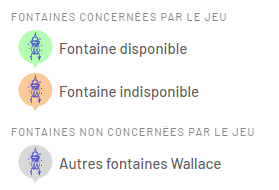
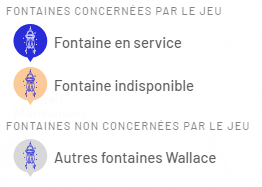
Fix fontaines and fontaines wallace

Changed region(s): [[0.0, 0.0267, 0.855, 0.5882], [0.0, 0.6417, 0.9466, 0.9626]]

diff --git a/fontaines/customcontrol/fontaines.html b/fontaines/customcontrol/fontaines.html
@@ -23,8 +23,8 @@
         id="btn-check__brumisation"
         class="btn-check-lgd"
         name="lgd"
-        cqltype="fontaines_type"
-        value="'FONTNE_WALLACE_2EN1','FONTAINE_TOTEM_2EN1','FTNE_MAT_SOURCE_2EN1'" />
+        cqltype="fontaines_brumisante"
+        value="'OUI'" />
       <label class="btn-legend" for="btn-check__brumisation" style="opacity: 1">
         <img src="apps/fontaines/img/brumisateur.svg" />
         <span i18n="fontaine.type.brumisation">Avec brumisation</span>
@@ -36,8 +36,8 @@
         id="btn-check__eau-petillante"
         class="btn-check-lgd"
         name="lgd"
-        cqltype="fontaines_type"
-        value="'FTNE_PETILLANTE',''" />
+        cqltype="fontaines_petillante"
+        value="'OUI'" />
       <label class="btn-legend" for="btn-check__eau-petillante" style="opacity: 1">
         <img src="apps/fontaines/img/eau_petillante.svg" />
         <span i18n="fontaine.type.eaupetillante">Eau pétillante</span>
@@ -334,6 +334,8 @@
   let list_types = [];
   let list_dispo = [];
   let list_dispo24 = [];
+  let list_petillante = [];
+  let list_brumisante = [];
 
 // Manage type of fontains block
 function filterDisplayBlock(targetBtn, targetBlock) {
@@ -345,9 +347,12 @@ function filterDisplayBlock(targetBtn, targetBlock) {
 // Function to reset filter
 function resetFilter() {
 	// Empty CQL lists and delete CQL Filter
-	list_dispo = [];
-	list_types = [];
-  list_dispo24 = [];
+	let list_types = [];
+  let list_dispo = [];
+  let list_dispo24 = [];
+  let list_petillante = [];
+  let list_brumisante = [];
+  let cql_constructor = [];
 	deleteCQLFilter();
 	// Opacity 1 for all labels
 	let labels = document.querySelectorAll(".btn-check-lgd ~ label");
@@ -421,50 +426,74 @@ checkboxes.forEach(function(checkbox) {
       valueInList(list_dispo24, cqlvalue);
     }else if(cqltype == "fontaines_d") {
       valueInList(list_dispo, cqlvalue);
-    } else if(cqltype == "fontaines_type") {
+    }else if(cqltype == "fontaines_type") {
       valueInList(list_types, cqlvalue);
+    }else if(cqltype == "fontaines_petillante") {
+      valueInList(list_petillante, cqlvalue);
+    }else if(cqltype == "fontaines_brumisante") {
+      valueInList(list_brumisante, cqlvalue);
     }
-		// Manage commerces layer
-		let checkCom = document.querySelectorAll("input[cqltype=commerces][name=lgd].checkOnMap");
-    if (checkCom.length > 0) {
-      mviewer.getLayer('commerce').layer.setVisible(true);
-      if (list_dispo.length == 0 && list_dispo24.length == 0 && list_types.length == 0) {
-        mviewer.getLayer('fontaines').layer.setVisible(false);
-      } else if (list_dispo.length == 0 && list_dispo24.length > 0 && list_types.length == 0) {
-        mviewer.getLayer('fontaines').layer.setVisible(false);
-        mviewer.getLayer('commerce').layer.setVisible(false);
-      } else {
-        mviewer.getLayer('fontaines').layer.setVisible(true);
-      }
-	  } else {
-      mviewer.getLayer('commerce').layer.setVisible(false);
-      mviewer.getLayer('fontaines').layer.setVisible(true);
+		
+    // Create expression for cql filter
+    let cql_filter_types;
+    let cql_filter_dispo;
+    let cql_filter_dispo24;
+    let cql_filter_petillante;
+    let cql_filter_brumisante;
+    let cql_constructor = [];
+    if (list_types.length > 0) {
+      cql_filter_types = `type_objet IN (${list_types})`;
+      cql_constructor.push(cql_filter_types);
     } 
-    // CQL filter creation according to lists for fontaines layers
-    let cql_filter;
-    if (list_dispo.length > 0 && list_types.length > 0 && list_dispo24.length  == 0) {
-      cql_filter = `type_objet IN  (${list_types}) AND dispo IN (${list_dispo})`;
-      filterDataByAttr(cql_filter);
-    } else if (list_dispo24.length > 0 && list_types.length == 0 && list_dispo.length == 0) {
-      cql_filter = `dispo_24 IN (${list_dispo24})`;
-      filterDataByAttr(cql_filter);
-    } else if (list_dispo24.length > 0 && list_types.length > 0 && list_dispo.length == 0) {
-      cql_filter = `type_objet IN  (${list_types}) AND dispo_24 IN (${list_dispo24})`;
-      filterDataByAttr(cql_filter);
-    } else if (list_dispo.length > 0 && list_types.length == 0 && list_dispo24.length  == 0) {
-      cql_filter = `dispo IN (${list_dispo})`;
-      filterDataByAttr(cql_filter);
-    } else if (list_dispo24.length == 0 && list_dispo.length == 0 && list_types.length > 0) {
-      cql_filter = `type_objet IN (${list_types})`;
-      filterDataByAttr(cql_filter);
-    } else if (list_dispo24.length > 0 && list_dispo.length > 0 && list_types.length == 0) {
+    if (list_dispo.length > 0) {
+      cql_filter_dispo = `dispo IN (${list_dispo})`;
+      cql_constructor.push(cql_filter_dispo);
+    }
+    if (list_dispo24.length > 0) {
+      cql_filter_dispo24 = `dispo_24 IN (${list_dispo24})`;
+      cql_constructor.push(cql_filter_dispo24);
+    }
+    if (list_petillante.length > 0) {
+      cql_filter_petillante = `petillante IN (${list_petillante})`;
+      cql_constructor.push(cql_filter_petillante);
+    }
+    if (list_brumisante.length > 0) {
+      cql_filter_brumisante = `brumisante IN (${list_brumisante})`;
+      cql_constructor.push(cql_filter_brumisante);
+    }
+
+    // Get status of commerces  
+    let checkCom = document.querySelectorAll("input[cqltype=commerces][name=lgd].checkOnMap");
+
+    // Manage display layers for each case
+    if (cql_constructor.length > 0 && checkCom.length > 0){      
+      filterDataByAttr(cql_constructor.join(' AND '));
+      mviewer.getLayer('fontaines').layer.setVisible(true);
+      // Combinaison Commerces + Dispo24 > Commerces non affichés
+      if (list_dispo24.length > 0) {     
+        mviewer.getLayer('commerce').layer.setVisible(false);        
+      } else {
+        mviewer.getLayer('commerce').layer.setVisible(true);
+      }   
+      // Combinaison Dispo + Dispo24 > Fontaines non affichées
+      if (list_dispo.length > 0 && list_dispo24.length > 0) {
+          mviewer.getLayer('fontaines').layer.setVisible(false);
+      }
+    } else if(cql_constructor.length > 0 && checkCom.length == 0){
+      filterDataByAttr(cql_constructor.join(' AND '));
+      mviewer.getLayer('fontaines').layer.setVisible(true);
+      mviewer.getLayer('commerce').layer.setVisible(false);
+      // Combinaison Dispo + Dispo24 > Fontaines non affichées
+      if (list_dispo.length > 0 && list_dispo24.length > 0) {
+          mviewer.getLayer('fontaines').layer.setVisible(false);
+      }
+    } else if(cql_constructor.length == 0 && checkCom.length > 0){
+      deleteCQLFilter();
       mviewer.getLayer('fontaines').layer.setVisible(false);
-    } else if (list_dispo24.length > 0 && list_dispo.length > 0 && list_types.length > 0) {
-      mviewer.getLayer('fontaines').layer.setVisible(false);
+      mviewer.getLayer('commerce').layer.setVisible(true);
     } else {
-			deleteCQLFilter();
-			mviewer.getLayer('commerce').layer.setVisible(true);
-		}		
+      resetFilter();
+    }
 	});
 });
 </script>

diff --git a/fontaines/templates/home.html b/fontaines/templates/home.html
@@ -92,6 +92,20 @@
 </script>
 
 <style>
+  /* Propriétés pour rendre tous les panels/modals transparents en mobile */
+  .xs .modal-content {
+      background-color: #fffffff0;
+  }
+
+  .xs #sidebar {
+      background-color: #fffffff0!important;
+  }
+
+  .xs .panel {
+      background-color: #ffffff00;
+  }
+
+  /**/
   .headerHome {
     display: flex;
     justify-content: space-between;
